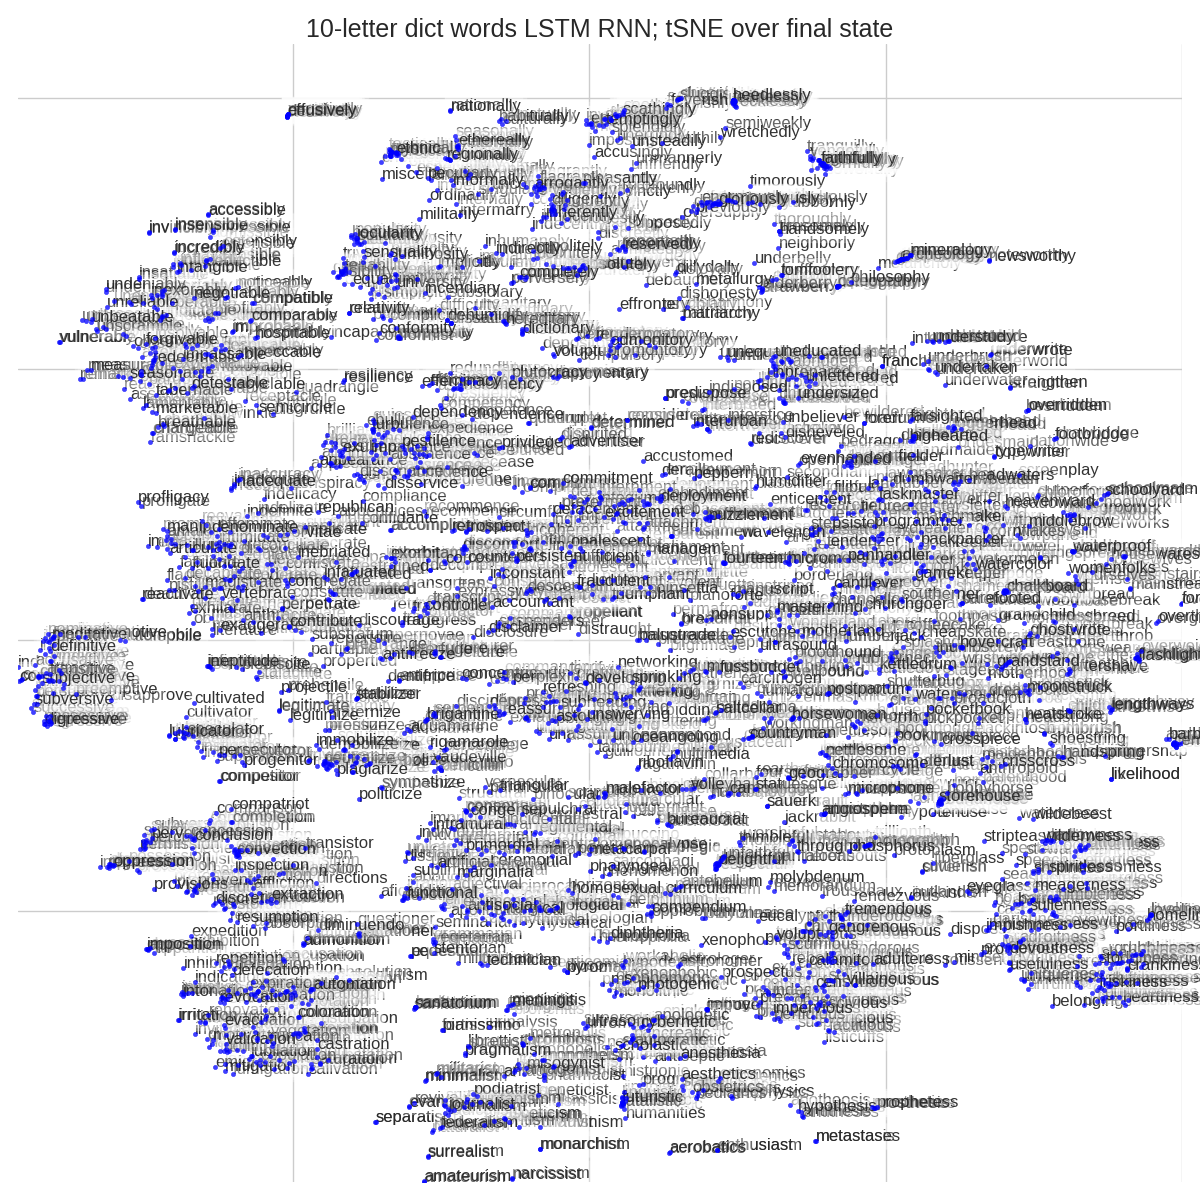
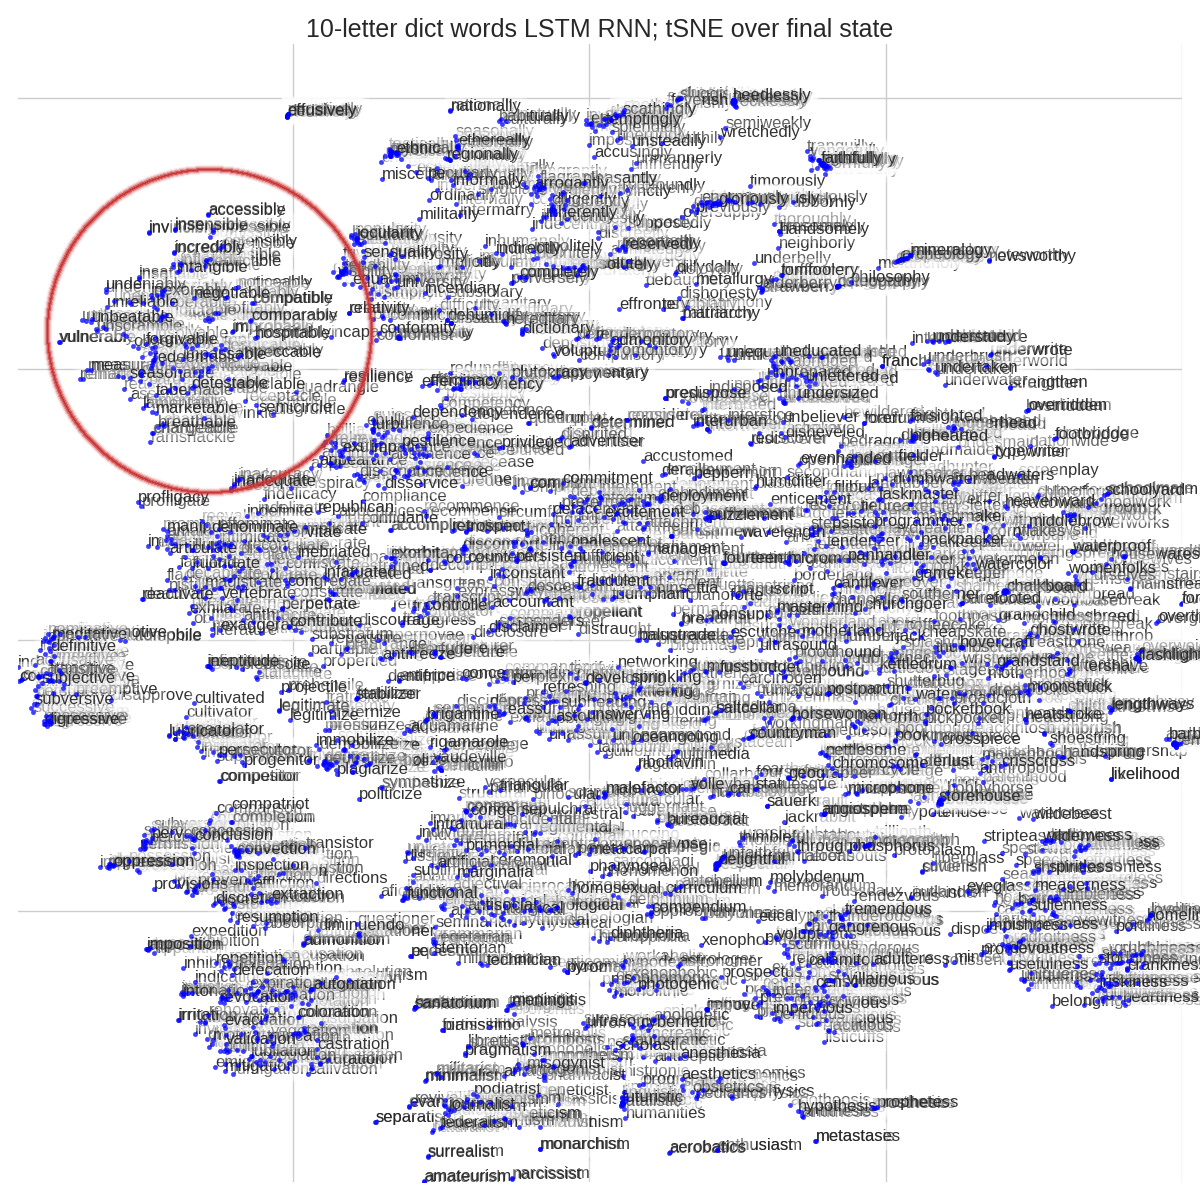
Complete first draft

diff --git a/HnT_pres.html b/HnT_pres.html
@@ -41,7 +41,7 @@
 	<section class="vertical-stack">
 <section   class="vertical-slide">
 <p>
-<h1>Deep Phonics</h1><a href="https://github.com/thoppe/arXiv2git">https://github.com/thoppe/deep-phonics</a></p>
+<h1>Deep Phonics</h1><a href="https://github.com/thoppe/deep-phonics">https://github.com/thoppe/deep-phonics</a></p>
 <hr>
 <p>
 <h3><a href="http://thoppe.github.io/">Travis Hoppe</a>, <a href="https://twitter.com/metasemantic">@metasemantic</a></h3></p>
@@ -61,9 +61,7 @@ Great for language modeling*. What's the next letter?<h3><code>The cat in the ha
 <br>
 <p>
 <div class="reference_footnote">*<a href="https://github.com/thoppe/RNN_science_titles">RNN Science titles</a>, DC Hack && Tell Round 26: <a href="(http://dc.hackandtell.org/2015/11/16/round-26.html">The Curious Camaraderie of Code</a></div></p>
-</section>
-</section><section class="vertical-stack">
-<section   class="vertical-slide">
+</section><section   class="vertical-slide">
 <p>
 <h3>Can we train the network to learn how to spell?</h3></p>
 <br>
@@ -75,10 +73,10 @@ Great for language modeling*. What's the next letter?<h3><code>The cat in the ha
     </figure>
 </section><section   class="vertical-slide">
 <p>
-<h3>Secrect sauce?</h3>Don't feed it sentences, give the network <strong>randomized</strong> word order.</p>
+<h3>Secret sauce?</h3>Don't feed it sentences, give the network <strong>randomized</strong> word order.</p>
 <br>
 <p>
-destitution outshone perfidious intestate autumn upswing usury perennially<br>cowgirl hovel chalet corrugated phantasmagoria xylophone union flippantly<br>craving willowy undersigned meningitis critically proofreader organist<br>segment cape letter savanna minimalism defector midstream potentate<br>blossom careless inherent confirmed exploratory lumberyard maverick<br>discourtesy statistical leeway pecan execute eggbeater enshroud weatherize<br>mainsail greedily outgrow sample wall befit desperate jostle momentous<br>blast mark acrimony loss benevolence bunion typhus subliminal refutation<br>inspire mischievousness lawlessness featherweight leisure drainpipe<br>polo strangler radiance office encephalitis stupendously airlift<br>slickly slacks dressy navigate duds pinch prime keep ammo deceptive<br>mafioso alternation overcast combative unbeknown photoelectric</p>
+destitution outshone perfidious intestate autumn upswing usury<br>cowgirl hovel chalet corrugated phantasmagoria xylophone union<br>craving willowy undersigned meningitis critically proofreader<br>segment cape letter savanna minimalism defector midstream<br>blossom careless inherent confirmed exploratory lumberyard<br>discourtesy statistical leeway pecan execute eggbeater enshroud<br>mainsail greedily outgrow sample wall befit desperate jostle<br>blast mark acrimony loss benevolence bunion typhus subliminal<br>inspire mischievousness lawlessness featherweight leisure<br>polo strangler radiance office encephalitis stupendously<br>slickly slacks dressy navigate duds pinch prime keep ammo<br>mafioso alternation overcast combative unbeknown</p>
 </section>
 </section><section class="vertical-stack">
 <section   class="vertical-slide">
@@ -90,9 +88,7 @@ destitution outshone perfidious intestate autumn upswing usury perennially<br>co
 <li><code>batch_size=50</code></li>
 <li><code>seq_length=15</code></li>
 <li><code>num_epochs=30</code></li></ul>
-</section>
-</section><section class="vertical-stack">
-<section   class="vertical-slide">
+</section><section   class="vertical-slide">
 <p>
 <h2>Deep "spelling"</h2></p>
 <br>
@@ -101,9 +97,87 @@ Wanted a consensus spelling of many words, but not too specialized.<br>Initial i
 <br>
 <p>
 Used 6of12 dictionaries, removing all proper nouns and acronyms.<br>Fed the words in randomized, repeated all words 4 times.</p>
+<br>
+<p>
+Sample words from the network and see what happens...!?</p>
 </section>
 </section><section class="vertical-stack">
 <section   class="vertical-slide">
+<p>
+<h2>Score words</h2>As you push words through the network, each letter selected gives a probability. Assign a <em>score</em> to each word s = -log(prod(p))</p>
+<figure>
+    <a href="figures/word_distributions.png">
+    <img class="" src="figures/word_distributions.png" height="600px">
+    </a>
+    
+    </figure>
+</section>
+</section><section class="vertical-stack">
+<section   class="vertical-slide">
+<p>
+<h3>Sampled seven letter words</h3>Imaginary words</p>
+<pre><code class=python>twigwee  4.044358     False
+uncoorn  4.178008     False
+eminate  4.240006     False
+wizable  4.249013     False
+icillic  4.320535     False
+rigtory  4.334869     False
+titting  4.543220     False
+upbland  4.549292     False
+idlener  4.578380     False
+gumborn  4.607096     False</code></pre>
+<p>
+Real words</p>
+<pre><code class=python>untruth  2.792500      True
+ringlet  3.114211      True
+missing  3.312544      True
+trumpet  3.356997      True
+mestizo  3.444021      True
+
+roadway  14.202039      True
+stupefy  14.227516      True
+dismiss  14.672120      True
+nightly  14.861044      True
+tsunami  15.432922      True
+cantata  15.943768      True</code></pre>
+</section>
+</section><section class="vertical-stack">
+<section   class="vertical-slide">
+<p>
+<h2>RNN Ipsum</h2></p>
+<br>
+<p>
+Trappe curient hectar loads, jit trucket haddy kleptoman wooel. Libelor ransor metis, edificently cocklesh wize hoo, furthorn sumptuously marma. Grote reeker welf joal, ison unmovel bridesman orn. Cordoner thromb laburna kowhead. Jets scoutman ballry, ostraciders agogy wilfulate a. Immortent ordan whick. Ovi bystan toge jit meni coby viscounce drychange. Askay smilt voodom, reunity hairdoor, gnorthiness ex. Spasion aquet sagebruch knavi sagebruch meniment diora. Grimlet orn askay ful earant chiropon impobiacy. Chainous harpistry olean yiem easth arrayo menorama. Warthoge buryard jaunch remoss golfhound. Raker drak rheost, everywork dreamable, axister coby nill.</p>
+</section>
+</section><section class="vertical-stack">
+<section   class="vertical-slide">
+<p>
+Cluster words on the network <strong>imprint</strong> after a word is pushed through.</p>
+<figure>
+    <a href="figures/tsne_10.png">
+    <img class="" src="figures/tsne_10.png" height="700px">
+    </a>
+    <figcaption>tSNE shows distinct clusters of spelling patterns, <code>-ible</code></figcaption>
+    </figure>
+</section><section   class="vertical-slide">
+<p>
+Cluster words on the network <strong>imprint</strong> after a word is pushed through.</p>
+<figure>
+    <a href="figures/tsne_9.png">
+    <img class="" src="figures/tsne_9.png" height="700px">
+    </a>
+    <figcaption>tSNE shows distinct clusters of spelling pattern, <code>-tive</code></figcaption>
+    </figure>
+</section><section   class="vertical-slide">
+<p>
+Cluster words on the network <strong>imprint</strong> after a word is pushed through.</p>
+<figure>
+    <a href="figures/tsne_8.png">
+    <img class="" src="figures/tsne_8.png" height="700px">
+    </a>
+    <figcaption>tSNE shows distinct clusters of spelling patterns, <code>-ous</code></figcaption>
+    </figure>
+</section><section   class="vertical-slide">
 <p>
 <h1>Thanks, you!</h1>Say hello: <a href="https://twitter.com/metasemantic">@metasemantic</a></p>
 </section>

diff --git a/HnT_pres.md b/HnT_pres.md
@@ -1,5 +1,5 @@
 # Deep Phonics
-[https://github.com/thoppe/deep-phonics](https://github.com/thoppe/arXiv2git)
+[https://github.com/thoppe/deep-phonics](https://github.com/thoppe/deep-phonics)
 ----------
 ### [Travis Hoppe](http://thoppe.github.io/), [@metasemantic](https://twitter.com/metasemantic)
 ====
@@ -11,7 +11,7 @@ Great for language modeling*. What's the next letter?
   
 && *[RNN Science titles](https://github.com/thoppe/RNN_science_titles), DC Hack && Tell Round 26: [The Curious Camaraderie of Code]((http://dc.hackandtell.org/2015/11/16/round-26.html)
   
-=====
+=====*
 
 ### Can we train the network to learn how to spell?
 
@@ -19,21 +19,21 @@ Great for language modeling*. What's the next letter?
 
 ====*
 
-### Secrect sauce?
+### Secret sauce?
 Don't feed it sentences, give the network *randomized* word order.
 
-destitution outshone perfidious intestate autumn upswing usury perennially 
-cowgirl hovel chalet corrugated phantasmagoria xylophone union flippantly
-craving willowy undersigned meningitis critically proofreader organist 
-segment cape letter savanna minimalism defector midstream potentate 
-blossom careless inherent confirmed exploratory lumberyard maverick 
-discourtesy statistical leeway pecan execute eggbeater enshroud weatherize
-mainsail greedily outgrow sample wall befit desperate jostle momentous 
-blast mark acrimony loss benevolence bunion typhus subliminal refutation
-inspire mischievousness lawlessness featherweight leisure drainpipe 
-polo strangler radiance office encephalitis stupendously airlift 
-slickly slacks dressy navigate duds pinch prime keep ammo deceptive
-mafioso alternation overcast combative unbeknown photoelectric 
+destitution outshone perfidious intestate autumn upswing usury
+cowgirl hovel chalet corrugated phantasmagoria xylophone union
+craving willowy undersigned meningitis critically proofreader 
+segment cape letter savanna minimalism defector midstream 
+blossom careless inherent confirmed exploratory lumberyard
+discourtesy statistical leeway pecan execute eggbeater enshroud
+mainsail greedily outgrow sample wall befit desperate jostle 
+blast mark acrimony loss benevolence bunion typhus subliminal
+inspire mischievousness lawlessness featherweight leisure 
+polo strangler radiance office encephalitis stupendously 
+slickly slacks dressy navigate duds pinch prime keep ammo
+mafioso alternation overcast combative unbeknown 
 
 ====
 
@@ -48,7 +48,7 @@ Train time, ~4 hours on a GTX 980.
 + `seq_length=15`
 + `num_epochs=30`
 
-====
+====*
   
 ## Deep "spelling"
 
@@ -57,8 +57,60 @@ Initial input from Wikipedia (freq > 500), too abstract.
 
 Used 6of12 dictionaries, removing all proper nouns and acronyms.
 Fed the words in randomized, repeated all words 4 times.
+
+Sample words from the network and see what happens...!?
+
+====
+
+## Score words
+As you push words through the network, each letter selected gives a probability. Assign a _score_ to each word s = -log(prod(p))
+!(figures/word_distributions.png)<<height:600px>>
   
 ====
+### Sampled seven letter words
+Imaginary words
+    twigwee  4.044358     False
+    uncoorn  4.178008     False
+    eminate  4.240006     False
+    wizable  4.249013     False
+    icillic  4.320535     False
+    rigtory  4.334869     False
+    titting  4.543220     False
+    upbland  4.549292     False
+    idlener  4.578380     False
+    gumborn  4.607096     False
+Real words    
+    untruth  2.792500      True
+    ringlet  3.114211      True
+    missing  3.312544      True
+    trumpet  3.356997      True
+    mestizo  3.444021      True
+    
+    roadway  14.202039      True
+    stupefy  14.227516      True
+    dismiss  14.672120      True
+    nightly  14.861044      True
+    tsunami  15.432922      True
+    cantata  15.943768      True
+
+====
+
+## RNN Ipsum
   
+Trappe curient hectar loads, jit trucket haddy kleptoman wooel. Libelor ransor metis, edificently cocklesh wize hoo, furthorn sumptuously marma. Grote reeker welf joal, ison unmovel bridesman orn. Cordoner thromb laburna kowhead. Jets scoutman ballry, ostraciders agogy wilfulate a. Immortent ordan whick. Ovi bystan toge jit meni coby viscounce drychange. Askay smilt voodom, reunity hairdoor, gnorthiness ex. Spasion aquet sagebruch knavi sagebruch meniment diora. Grimlet orn askay ful earant chiropon impobiacy. Chainous harpistry olean yiem easth arrayo menorama. Warthoge buryard jaunch remoss golfhound. Raker drak rheost, everywork dreamable, axister coby nill.
+
+====
+Cluster words on the network *imprint* after a word is pushed through.
+!(figures/tsne_10.png) <<height:700px>> tSNE shows distinct clusters of spelling patterns, `-ible`
+====*
+Cluster words on the network *imprint* after a word is pushed through.
+!(figures/tsne_9.png) <<height:700px>> tSNE shows distinct clusters of spelling pattern, `-tive`
+====*
+Cluster words on the network *imprint* after a word is pushed through.
+!(figures/tsne_8.png) <<height:700px>> tSNE shows distinct clusters of spelling patterns, `-ous`
+  
+====*
+
+    
 #  Thanks, you!
 Say hello: [@metasemantic](https://twitter.com/metasemantic)
